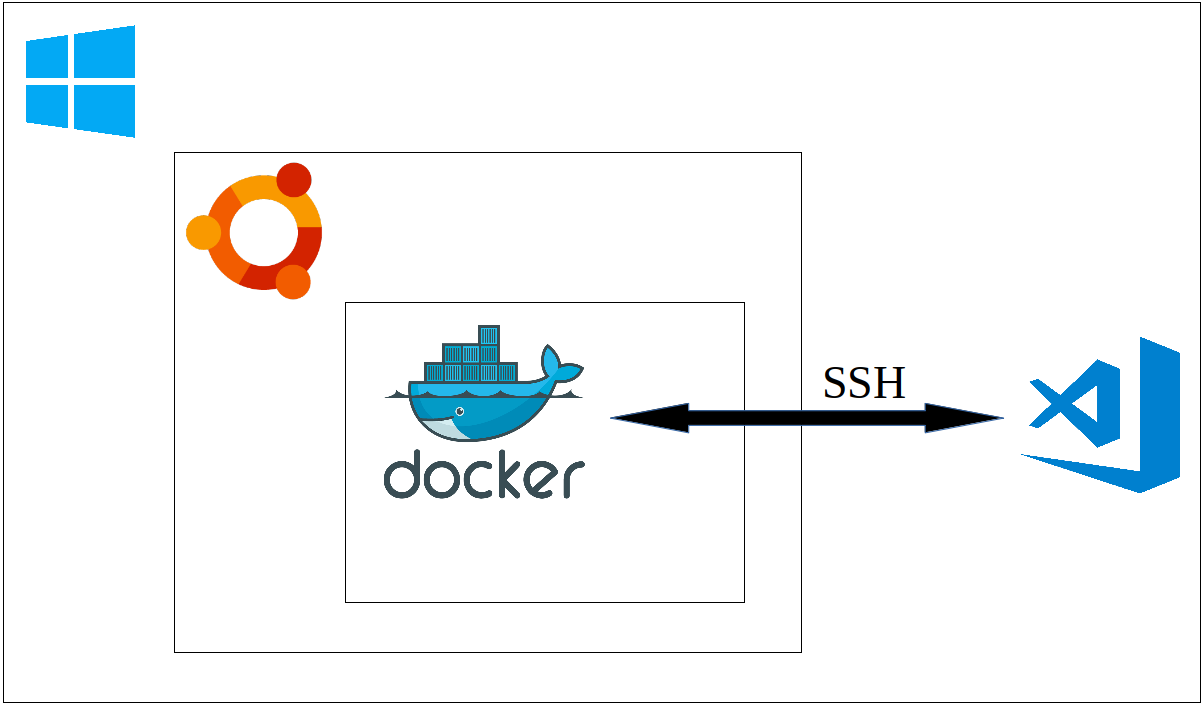
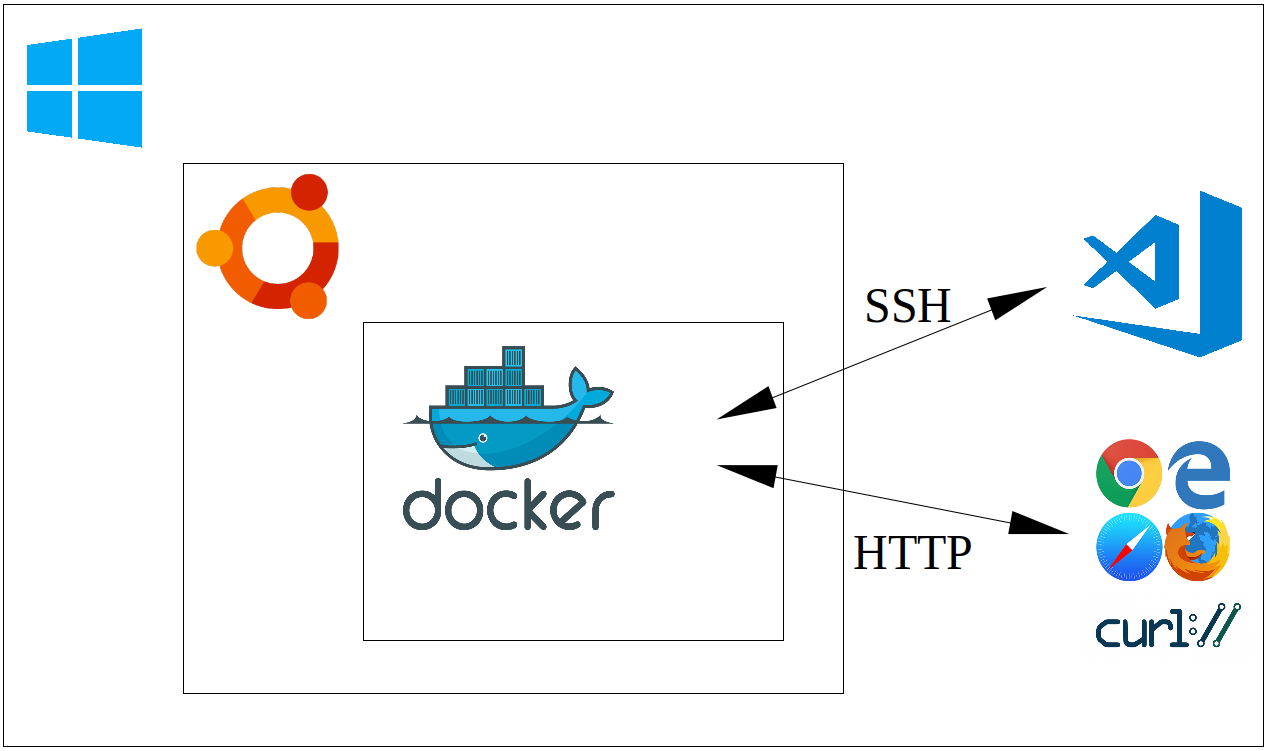
Updated Dockerfile, README

diff --git a/slides/index.html b/slides/index.html
@@ -77,9 +77,6 @@
 
 				<section data-background="media/dev.png" data-background-size="contain">
 				</section>
-
-				<section data-background="media/client.png" data-background-size="contain">
-				</section>
 			</section>
 
 			<section>

diff --git a/README.md b/README.md
@@ -1,23 +1,21 @@
 ## Working Productively on Windows Using Windows Subsystem for Linux 2 and Docker
 
-A relatively common scenario in enterprise is to provide users with a Windows desktop with a relatively small set of tools, and without administrative access.  Depending on the type of work required, this sort of configuration might be perfectly reasonable, but for others it will be productivity-limiting at best.
+A relatively common scenario in enterprise is to provide users a Windows desktop with a relatively small set of tools, and without administrative access.  Depending on the type of work required, this sort of configuration might be perfectly reasonable, but for others it will be productivity-limiting _at best_.
 
-Here we discuss the use of Windows Subsytem for Linux 2 (WSL2), along with Docker, as a means of end-user enablement that might offer a reasonable compromise between safety and productivity.  WSL2 allows Windows users to install a largely feature-complete version of Linux within Windows itself, which can be used 'remotely' via Visual Studio Code (vscode) for almost anything.  Normal users will have administrative rights within the Linux installation, but will not have any heightened access over the host OS itself, meaning users are free to experiment with little risk to the host.
+Here we discuss the use of Windows Subsystem for Linux 2 (WSL2), along with Docker, as a means of end-user enablement that might offer a reasonable compromise between safety and productivity.  WSL2 allows Windows users to install a largely feature-complete version of Linux within Windows itself, which can be used 'remotely' via Visual Studio Code (vscode) for almost anything.  Normal users will have administrative rights within the Linux installation, but will not have any heightened access over the host OS itself, meaning users are free to experiment with little risk to the host.
 
-Linux on WSL is a perfectly reasonable sandpit in its own right&ndash;we can experiment as suggested, and if somehow break the install we can simply blow it away and start again.  Even so, here we use the Linux instance purely to build Docker images and run Docker containers, ensuring the Linux system remains free of clutter, while providing yet another layer of abstraction.  That is, we run tools via Docker, which runs via Linux on WSL2, rather than installing those tools in Windows.  The target tools are then accessed remotely via SSH or similar, or via some other client interface, such as a web browser or web service.
+Linux on WSL is a perfectly reasonable sandpit in its own right&ndash;we can experiment as suggested, and if we somehow break the install we can simply blow it away and start again.  Even so, we can choose to use the Linux instance only to build Docker images and run Docker containers, ensuring the Linux system remains free of clutter, while providing yet another layer of abstraction.  That is, we run tools via Docker, which runs via Linux on WSL2, rather than installing those tools in Windows.  The target tools are then accessed remotely via SSH or similar, or via some other client interface, such as a web browser or web service.
 
 ![](slides/media/dev.png)
 
-![](slides/media/client.png)
-
 ## Prerequisites
 
-The goal is to demonstrate that we can make Windows a productive environment in an enterprise setting, with only a minimal set of tools to bootrap our efforts.  Specifically, all that is strictly required is:
+The goal is to demonstrate that we can make Windows a productive environment in an enterprise setting, with only a minimal set of tools to bootstrap our efforts.  All that is strictly required is:
 
 * WSL2 is enabled on Windows
 * Ubuntu 20.04 is installed for WSL2
 * Docker is installed on Ubuntu 20.04
-* OpenSSH client is enabled
+* OpenSSH client is enabled on Windows
 * Visual Studio Code is installed on Windows
 * remote extensions are installed for vscode
 
@@ -25,9 +23,9 @@ WSL2 is available on Windows 10, any edition, build 2004 and up, as well as for 
 
 ## Docker Basics
 
-To create a Docker image, we just need a file called `Dockerfile` containing a complete set of instructions for the build.  That is, a container is (or can be) completely reproducible given only the `Dockerfile`, and so it is often sufficient to manage just this in a version controls system.
+To create a Docker image, we just need a file called `Dockerfile` containing a complete set of instructions for the build.  That is, a container is (or can be) completely reproducible given only the `Dockerfile`, and so it is often sufficient to manage just this in a version control system.
 
-We'll see `Dockerfile` examples in the following sections, but given a file, all we need to do to actually create a runnable image called `foo` is to run:
+We'll see `Dockerfile` examples in the following sections, but given such a file, all we need to do to actually create a runnable image called `foo` is to run:
 
 ```bash
 docker build -t foo <path to Dockerfile>
@@ -38,6 +36,8 @@ Once created, we can then run instances of the image by running something like t
 ```bash
 docker run -d --rm --name mycontainer foo 
 ``` 
+
+Of course, this is the simplest possible setup, and things can certainly ramp up a bit.  We can copy files from local folders into the image, parameterise the build by using build arguments, add environment variables at runtime, create ad hoc networks for collections of containers, create volumes or mount local folders for persisting data, and more.
 
 ## Containers as Generic Development Environments 
 
@@ -116,7 +116,7 @@ docker run -d --rm --name development \
 In this case, we copy our keys to the container _at runtime_ so that we can connect without a password via a standard SSH client.  In particular, we add the following to our SSH config:
 
 ```
-Host devdocker
+Host dockerdev
   HostName localhost
   Port 23
   User root
@@ -148,9 +148,6 @@ RUN  apt-get update && apt-get -y dist-upgrade && \
   apt-get install -y --no-install-recommends ca-certificates openjdk-8-jre-headless wget gfortran make && \
   mkdir -p /tmp/x13 && \
   cd /tmp/x13 && \
-  # wget https://www.census.gov/ts/x13as/unix/x13ashtmlall_V1.1_B39.tar.gz && \
-  # tar -xvf x13ashtmlall_V1.1_B39.tar.gz && \
-  # mv x13ashtml /usr/bin/ && \
   wget https://www.census.gov/ts/x13as/unix/x13ashtmlsrc_V1.1_B39.tar.gz && \
   tar -xvf x13ashtmlsrc_V1.1_B39.tar.gz && \
   make -j20 -f makefile.gf && \
@@ -168,7 +165,7 @@ EXPOSE 9001
 ENTRYPOINT ["java", "-cp", "/seasadj.jar", "org.cmhh.seasadj.Service"]
 ```
 
-In this example, we simply create a basic instance with a Java runtime, and download an [artefact](https://github.com/cmhh/seasadj/releases/download/0.1.0-SNAPSHOT/seasadj.jar) from GitHub to serve as our entrypoint.  Note that the service itself also requires [X13-ARIMA-SEATS](https://www.census.gov/srd/www/x13as/) be present. (Note that an earlier version of the container simply downloaded a precompiled binary, but that this binary seemed to cause a segmentation fault when run.  So, in this version the source is instead downloaded and compiled to produce a working binary.)
+In this example, we simply create a basic instance with a Java runtime, and download an [artefact](https://github.com/cmhh/seasadj/releases/download/0.1.0-SNAPSHOT/seasadj.jar) from GitHub to serve as our entrypoint.  Note that the service itself also requires [X13-ARIMA-SEATS](https://www.census.gov/srd/www/x13as/) be present, so we download the source and compile it as part of the image build. 
 
 As usual, the container is built as follows:
 
@@ -182,7 +179,40 @@ and run as follows:
 docker run -td --rm --name seasadj -p 9001:9001 seasadj
 ```
 
-The service is stateless.  It accepts one or more input specifications as a JSON array, and returns seasonally adjusted data in the same format.  A basic SPA is provided for quick testing, which can be run directly from the file system:
+The service is stateless.  It accepts one or more input specifications as a JSON array, and returns seasonally adjusted data in the same format.  For example, to adjust the following JSON input:
+
+```json
+{
+  "ap": {
+    "series": {
+      "title": "Air Passengers",
+      "start": 1958.01,
+      "data": [
+        340.0, 318.0, 362.0, 348.0, 363.0, 435.0, 
+        491.0, 505.0, 404.0, 359.0, 310.0, 337.0, 
+        360.0, 342.0, 406.0, 396.0, 420.0, 472.0, 
+        548.0, 559.0, 463.0, 407.0, 362.0, 405.0, 
+        417.0, 391.0, 419.0, 461.0, 472.0, 535.0, 
+        622.0, 606.0, 508.0, 461.0, 390.0, 432.0
+      ]
+    },
+    "x11": null
+  }
+}
+```
+
+we could use CURL as follows:
+
+```bash
+curl \
+  -X POST \
+  -H "Content-Type: application/json" \
+  -d @airpassengers.min.json \
+  localhost:9001/seasadj/adjust \
+  --compressed --output airpassengers.output.json
+```
+
+We could even build a SPA.  The following is a screenshot of a basic app written using Vue.js, for example:
 
 ![](img/seasadjclient.png)
 
@@ -227,6 +257,7 @@ Once running, one can then connect using database clients such as the excellent 
 
 ![](img/dbeaver.png)
 
+The database provided is a full-featured version of SQL Server, and so is sufficient for local development, but also general purpose testing.  Want to know what sort of performance improvement would be achieved with the addition of a columnstore index?  You can test the locally&ndash;no need to appeal to a physical or remote test environment, certainly if one doesn't already exist, or if a process must be followed to be granted access. 
 
 ## Analytics via Containers
 
@@ -355,4 +386,18 @@ docker tag rstudio:4.0.3 localhost:8080/rstudio:4.0.3
 docker push localhost:8080/rstudio:4.0.3
 ```
 
+The UI itself will be available in our web browser at `localhost:8080`:
+
 ![](img/registryui.png)
+
+# Summary
+
+WSL2 lets us use a Windows machine for any manner of local development and analytics.  A Linux instance running via WSL2 gives us a degree of isolation, and so is relatively safe&ndash;perhaps no less safe than allowing the local use of something like Python.  We can ramp up the isolation by using the Linux instance exclusively to build Docker images and run Docker containers.  Besides, using containers dramatically simplifies application deployment, and is relatively standard at this point, and so is a useful skill to develop.
+
+Having access to a Linux instance, and having the ability to build and run container images, means there's almost nothing we couldn't build or test locally, so with little cost or administrative drag.  The use cases here are by no means exhaustive, but we can:
+
+* use containers to build and test applications locally
+* use containers to test deployment of applications
+* use containers to house (possibly ephemeral) database instances
+* use containers to run or test analytical / data science platforms
+* and much more!

diff --git a/docker/adventureworks/README.md b/docker/adventureworks/README.md
@@ -15,8 +15,6 @@ docker run -d --rm \
   --name adventureworks \
   -e 'ACCEPT_EULA=Y' \
   -e 'MSSQL_SA_PASSWORD=password-1234' \
-  -p 1431:1431 \
-  -p 1432:1432 \
   -p 1433:1433 \
   adventureworks
 ```
